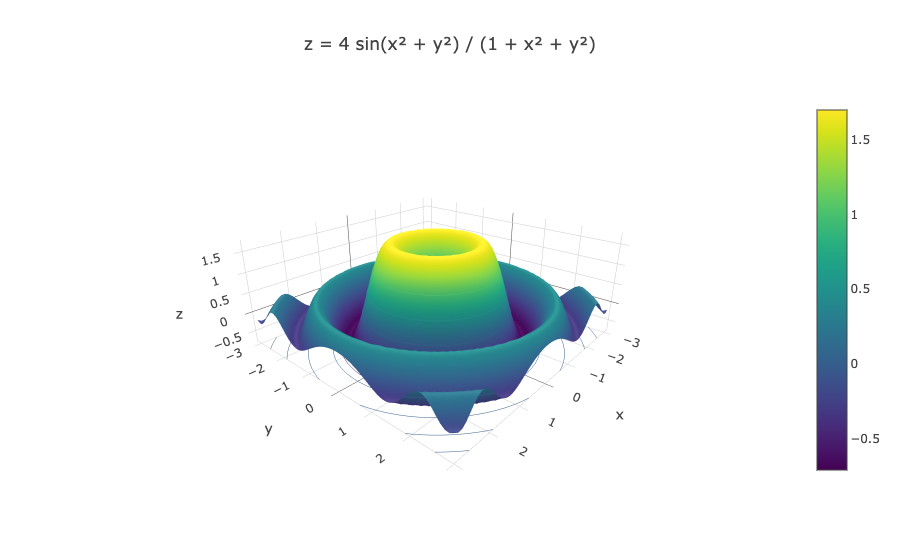
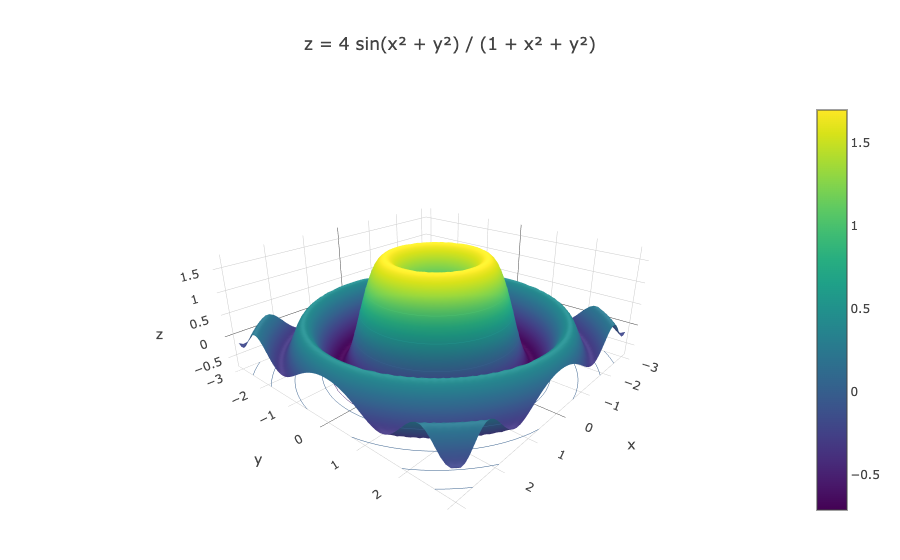
Lead the README with what rbplotly looks like in use
- Open with a GIF of hovering, box-zooming and resetting a chart, recorded in headless
  Chrome by rake docs:images.
- Add a short "Why rbplotly": all of plotly.js, validated, nothing to sign up for.
- Show the quick start's output next to its code; the screenshot is rendered from the
  README's own code block.
- Move the validation errors up and link four gallery thumbnails.
- Round the line example's values and color the Sankey links by source.

diff --git a/rakelib/support/readme_media.rb b/rakelib/support/readme_media.rb
@@ -1,0 +1,97 @@
+# frozen_string_literal: true
+
+require "ferrum"
+require "fileutils"
+require "tmpdir"
+require_relative "gallery"
+
+# Renders figures in headless Chrome to make the README's screenshots and its hero GIF.
+class ReadmeMedia
+  CURSOR = <<~JS
+    var c = document.createElement("div");
+    c.id = "fake-cursor";
+    c.innerHTML = '<svg width="20" height="20" viewBox="0 0 20 20"><path d="M2 2 L2 16 L6 12 L9 18 L11 17 L8 11 L14 11 Z" fill="#111" stroke="#fff" stroke-width="1.2"/></svg>';
+    c.style.cssText = "position:fixed;left:0;top:0;pointer-events:none;z-index:99999;display:none";
+    document.body.appendChild(c);
+    document.addEventListener("mousemove", function (e) {
+      c.style.display = "block";
+      c.style.transform = "translate(" + (e.clientX - 2) + "px," + (e.clientY - 2) + "px)";
+    }, true);
+  JS
+
+  def initialize(dir)
+    @dir = dir
+    @browser = Ferrum::Browser.new(headless: true, timeout: 60, window_size: [1000, 800])
+  end
+
+  def close = @browser.quit
+
+  # Screenshots a figure at the given size.
+  def screenshot(figure, path, width:, height:)
+    load(figure, width, height)
+    @browser.screenshot(path: path, selector: ".plotly-graph-div")
+  end
+
+  # Records hovering along a line chart, box-zooming into it and double-clicking back out.
+  def record_gif(figure, path, width:, height:)
+    load(figure, width, height)
+    @browser.execute(CURSOR)
+    size = @browser.evaluate("document.querySelector('.plotly-graph-div')._fullLayout._size")
+    left, top, w, h = size.values_at("l", "t", "w", "h")
+    frames = []
+    snap = -> { frames << shoot(frames.size) }
+    mouse = @browser.mouse
+
+    mouse.move(x: left + 10, y: top + h * 0.5)
+    36.times do |i|
+      mouse.move(x: left + 10 + (w - 20) * i / 35.0, y: top + h * (0.5 - 0.15 * Math.sin(i / 6.0)))
+      snap.call
+    end
+    4.times { snap.call }
+
+    from = [left + w * 0.55, top + 12]
+    to = [left + w * 0.82, top + h - 12]
+    mouse.move(x: from[0], y: from[1])
+    mouse.down
+    14.times do |i|
+      t = (i + 1) / 14.0
+      mouse.move(x: from[0] + (to[0] - from[0]) * t, y: from[1] + (to[1] - from[1]) * t)
+      snap.call
+    end
+    mouse.up
+    8.times { snap.call && sleep(0.05) }
+
+    18.times do |i|
+      mouse.move(x: left + w * (0.2 + 0.6 * i / 17.0), y: top + h * 0.4)
+      snap.call
+    end
+
+    mouse.click(x: left + w * 0.5, y: top + h * 0.5, count: 2)
+    10.times { snap.call && sleep(0.05) }
+    6.times { snap.call }
+
+    encode(frames, path)
+  end
+
+  private
+
+  def load(figure, width, height)
+    page = figure.write_html(File.join(@dir, "figure-#{rand(1 << 30)}.html"), width: width, height: height)
+    @browser.go_to("file://#{page}")
+    sleep 0.1 until @browser.evaluate("!!document.querySelector('.plotly-graph-div .main-svg')")
+    sleep 1 # let WebGL traces (surface) finish their first frame
+  end
+
+  def shoot(index)
+    path = File.join(@dir, format("frame%03d.png", index))
+    @browser.screenshot(path: path, selector: ".plotly-graph-div")
+    path
+  end
+
+  def encode(frames, path)
+    pattern = File.join(@dir, "frame%03d.png")
+    filters = "fps=12,split[a][b];[a]palettegen=max_colors=96:stats_mode=diff[p];[b][p]paletteuse=dither=none:diff_mode=rectangle"
+    system("ffmpeg", "-loglevel", "error", "-y", "-framerate", "12", "-i", pattern,
+      "-vf", filters, "-loop", "0", path, exception: true)
+  end
+end

diff --git a/examples/sankey.rb b/examples/sankey.rb
@@ -2,6 +2,8 @@
 require "rbplotly"
 
 pages = ["Landing", "Docs", "Pricing", "Sign up", "Left"]
+colors = ["#636efa", "#ab63fa", "#ffa15a", "#00cc96", "#b0b7c3"]
+translucent = ->(hex) { "rgba(#{hex[1..].scan(/../).map(&:hex).join(", ")}, 0.35)" }
 flows = [
   ["Landing", "Docs", 420], ["Landing", "Pricing", 310], ["Landing", "Left", 270],
   ["Docs", "Sign up", 160], ["Docs", "Left", 260], ["Pricing", "Sign up", 190], ["Pricing", "Left", 120]
@@ -9,8 +11,9 @@ flows = [
 
 fig = Plotly::Figure.new
   .add_sankey(
-    node: {label: pages, pad: 20, thickness: 18},
+    node: {label: pages, color: colors, pad: 20, thickness: 18},
     link: {
+      color: flows.map { |from, _, _| translucent.call(colors[pages.index(from)]) },
       source: flows.map { |from, _, _| pages.index(from) },
       target: flows.map { |_, to, _| pages.index(to) },
       value: flows.map(&:last)

diff --git a/examples/line.rb b/examples/line.rb
@@ -4,8 +4,10 @@ require "rbplotly"
 
 rng = Random.new(1)
 days = (Date.new(2026, 1, 1)..Date.new(2026, 6, 30)).to_a
-users = days.each_with_index.map { |day, i| 1200 + 4 * i + 300 * Math.sin(i / 9.0) + ((day.saturday? || day.sunday?) ? -250 : 0) + rng.rand(-60..60) }
-average = users.each_index.map { |i| users[[0, i - 6].max..i].sum / (i - [0, i - 6].max + 1) }
+users = days.each_with_index.map do |day, i|
+  (1200 + 4 * i + 300 * Math.sin(i / 9.0) + ((day.saturday? || day.sunday?) ? -250 : 0) + rng.rand(-60..60)).round
+end
+average = users.each_index.map { |i| (users[[0, i - 6].max..i].sum.to_f / (i - [0, i - 6].max + 1)).round }
 
 fig = Plotly::Figure.new
   .add_scatter(x: days, y: users, mode: :lines, name: "Daily", line_color: "rgba(99, 110, 250, 0.35)")

diff --git a/spec/readme_spec.rb b/spec/readme_spec.rb
@@ -8,7 +8,7 @@ RSpec.describe "README.md" do
   blocks = readme.scan(/^```ruby\n(.*?)^```/m).flatten
 
   it "has Ruby examples" do
-    expect(blocks.size).to be >= 5
+    expect(blocks.size).to be >= 4
   end
 
   it "runs every Ruby example as documented" do

diff --git a/README.md b/README.md
@@ -3,42 +3,87 @@
 [![Gem Version](https://img.shields.io/gem/v/rbplotly)](https://rubygems.org/gems/rbplotly)
 [![CI](https://github.com/ash1day/rbplotly/actions/workflows/ci.yml/badge.svg)](https://github.com/ash1day/rbplotly/actions/workflows/ci.yml)
 
-Interactive [Plotly.js](https://plotly.com/javascript/) charts from Ruby.
+**Interactive [Plotly.js](https://plotly.com/javascript/) charts from Ruby.** Hover, zoom and
+pan in the browser, from a few lines of plain Ruby, in a single HTML file you can send anyone.
 
-- **Every chart type and attribute plotly.js has.** Figures are plain Ruby hashes, checked
-  against the schema of the plotly.js release rbplotly ships with (4.1.2: 47 trace types).
-- **Mistakes fail where you wrote them**, with the path and a suggestion, instead of a chart
-  that silently draws nothing.
-- **HTML you can hand to anyone.** One self-contained file that works offline, a fragment for
-  a Rails view, or inline output in Jupyter. No account, API key or server.
+<img src="docs/images/hero.gif" width="800" alt="Hovering over a line chart made with rbplotly shows the values for each day; dragging zooms into a range and a double-click zooms back out">
 
-<img src="docs/images/subplots.png" width="720" alt="A dashboard with a bar chart, a line chart, a donut chart and an area chart, made with rbplotly">
+## Why rbplotly
 
-**[Gallery: every example next to its code](https://ash1day.github.io/rbplotly/)**
-
-## Installation
-
-```sh
-gem install rbplotly
-```
-
-or add `gem "rbplotly"` to your Gemfile. Requires Ruby 3.3 or later.
+- **All of plotly.js, nothing invented.** Every chart type (47 of them, from bar charts to 3D
+  surfaces, Sankey diagrams and maps) and every attribute in the
+  [plotly.js reference](https://plotly.com/javascript/reference/) works as written there.
+  Plotly publishes no Ruby library; rbplotly is that missing layer.
+- **Mistakes stop at the line that made them.** Figures are checked against the schema of the
+  bundled plotly.js release, so a typo raises an error with the attribute path and a
+  suggestion instead of producing a chart that silently ignores it.
+- **Nothing to sign up for.** Output is HTML: one self-contained file that works offline, a
+  fragment for a Rails view, or inline output in Jupyter. No account, API key or server.
 
 ## Quick start
+
+```sh
+gem install rbplotly   # Ruby 3.3+; or add gem "rbplotly" to your Gemfile
+```
 
 ```ruby
 require "rbplotly"
 
+weeks = (1..12).to_a
+plan = [12, 14, 13, 17, 16, 19, 21, 20, 23, 25, 24, 28]
+actual = [10, 15, 13, 18, 17, 18, 23, 22, 22, 27, 26, 31]
+
 fig = Plotly::Figure.new
-  .add_scatter(x: [1, 2, 3, 4], y: [10, 15, 13, 17], mode: :"lines+markers", name: "Actual")
-  .add_bar(x: [1, 2, 3, 4], y: [12, 14, 12, 18], name: "Plan", opacity: 0.5)
-  .update_layout(title_text: "Weekly sales", xaxis_title_text: "Week", yaxis_title_text: "Units")
+  .add_bar(x: weeks, y: plan, name: "Plan", marker_color: "#c7d2fe")
+  .add_scatter(x: weeks, y: actual, name: "Actual", mode: :"lines+markers", line_width: 3)
+  .update_layout(title_text: "Weekly sales", xaxis_title_text: "Week",
+    yaxis_title_text: "Units", hovermode: "x unified")
 
 fig.write_html("sales.html") # add open: true to open it in your browser
 ```
 
+<img src="docs/images/quick-start.png" width="800" alt="The chart the code above draws: planned sales as light bars and actual sales as a line over twelve weeks">
+
 `sales.html` is a single file with plotly.js embedded: open it offline, attach it to an email,
 or publish it as is.
+
+## Mistakes stop where you made them
+
+```ruby
+fig.add_scatter(x: [1, 2], y: [3, 1], mode: :line)
+# => Plotly::ValidationError: data[2].mode: "line" is not a flag of mode. Did you mean "lines"?
+#    Join "lines", "markers", "text" with "+", or use "none"
+fig.update_layout(barmode: :stacked)
+# => Plotly::ValidationError: layout.barmode: "stacked" is not one of "stack", "group",
+#    "overlay", "relative". Did you mean "stack"?
+fig.add_bar(y: [1], marker_colour: "red")
+# => Plotly::ValidationError: data[2].marker.colour: marker has no attribute "colour".
+#    Did you mean "color"?
+fig.update_layout(title: "Sales")
+# => Plotly::ValidationError: layout.title: expected a Hash of title attributes, got "Sales".
+#    Plotly.js no longer accepts a plain string here:
+#    use title: {text: "Sales"} or title_text: "Sales"
+```
+
+Validation covers attribute names, enumerated values, flag lists, booleans and number ranges.
+Colors, data arrays and free-form values are passed through. If you need an attribute from a
+newer plotly.js than the bundled one, turn validation off for that figure:
+`Plotly::Figure.new(validate: false)`.
+
+## Gallery
+
+<table>
+  <tr>
+    <td><a href="https://ash1day.github.io/rbplotly/#surface"><img src="docs/images/surface.png" width="400" alt="A 3D surface plot"></a></td>
+    <td><a href="https://ash1day.github.io/rbplotly/#sankey"><img src="docs/images/sankey.png" width="400" alt="A Sankey diagram of visitor flows"></a></td>
+  </tr>
+  <tr>
+    <td><a href="https://ash1day.github.io/rbplotly/#geo"><img src="docs/images/geo.png" width="400" alt="Cities sized by population on a world map"></a></td>
+    <td><a href="https://ash1day.github.io/rbplotly/#distributions"><img src="docs/images/distributions.png" width="400" alt="Histograms and box plots of response times sharing an axis"></a></td>
+  </tr>
+</table>
+
+**[See every example running, next to its code →](https://ash1day.github.io/rbplotly/)**
 
 ## Building figures
 
@@ -55,7 +100,8 @@ fig = Plotly::Figure.new(
 # One add_<type> helper per trace type: add_scatter, add_bar, add_heatmap, add_sankey, ...
 fig.add_scatter(x: %w[A B C], y: [2, 2, 2], mode: :lines, name: "Target")
 
-# Underscores reach into nested attributes: marker_line_width: 2 is marker: {line: {width: 2}}
+# Underscores reach into nested attributes:
+# marker_line_width: 2 is marker: {line: {width: 2}}
 fig.update_traces({marker_color: "teal", marker_line_width: 1}, selector: {type: :bar})
 fig.update_layout(yaxis_range: [0, 4], legend_orientation: "h")
 ```
@@ -66,35 +112,13 @@ Updates merge into what is already there.
 ### Subplots
 
 ```ruby
-fig = Plotly.make_subplots(rows: 1, cols: 2, subplot_titles: ["Revenue", "Users"], shared_yaxes: false)
+fig = Plotly.make_subplots(rows: 1, cols: 2, subplot_titles: ["Revenue", "Users"])
 fig.add_bar(x: %w[Q1 Q2 Q3], y: [10, 12, 15], row: 1, col: 1)
 fig.add_scatter(x: %w[Q1 Q2 Q3], y: [200, 260, 310], row: 1, col: 2)
 fig.update_yaxes({title_text: "USD (M)"}, row: 1, col: 1)
 ```
 
 `shared_xaxes:` and `shared_yaxes:` link the axes of a column or row so they zoom together.
-
-### When something is wrong
-
-```ruby
-fig = Plotly::Figure.new
-fig.add_scatter(x: [1, 2], y: [3, 1], mode: :line)
-# => Plotly::ValidationError: data[0].mode: "line" is not a flag of mode. Did you mean "lines"?
-#    Join "lines", "markers", "text" with "+", or use "none"
-```
-
-```ruby
-fig.add_bar(y: [1], marker_colour: "red")
-# => Plotly::ValidationError: data[0].marker.colour: marker has no attribute "colour". Did you mean "color"?
-fig.update_layout(title: "Sales")
-# => Plotly::ValidationError: layout.title: expected a Hash of title attributes, got "Sales".
-#    Plotly.js no longer accepts a plain string here: use title: {text: "Sales"} or title_text: "Sales"
-```
-
-Validation covers attribute names, enumerated values, flag lists, booleans and number ranges.
-Colors, data arrays and free-form values are passed through. If you need an attribute from a
-newer plotly.js than the bundled one, turn validation off for that figure:
-`Plotly::Figure.new(validate: false)`.
 
 ## Output
 
